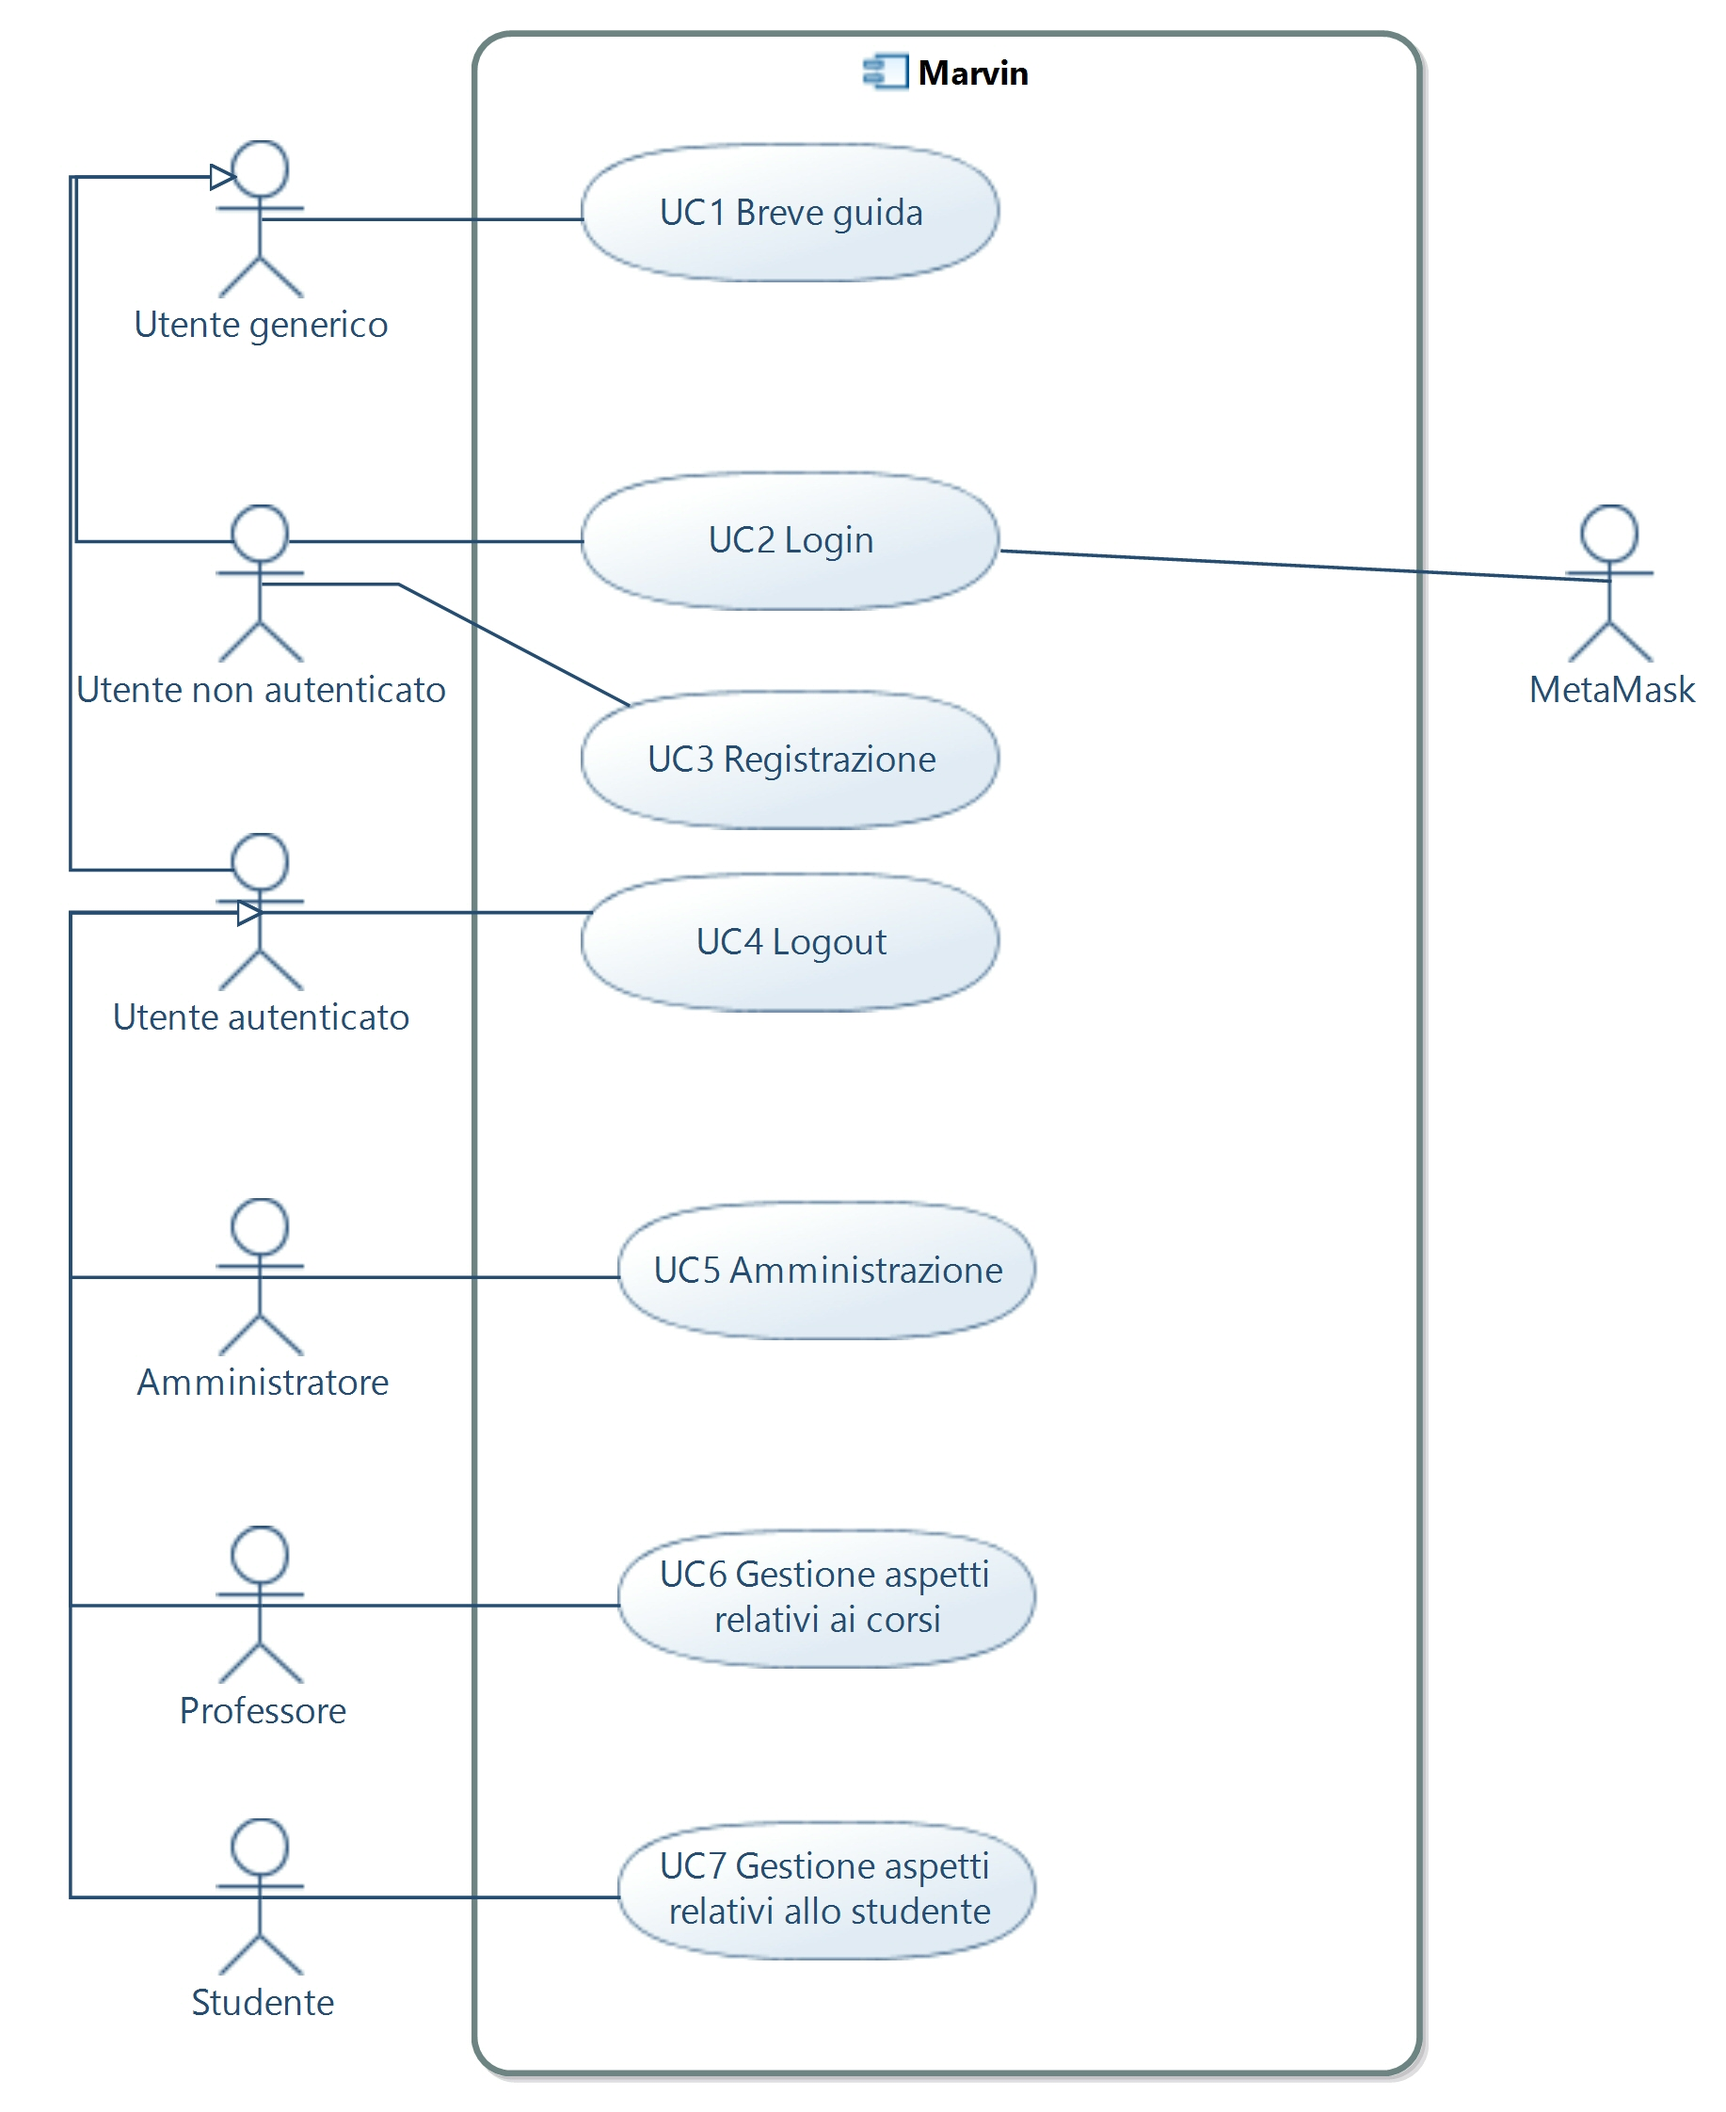
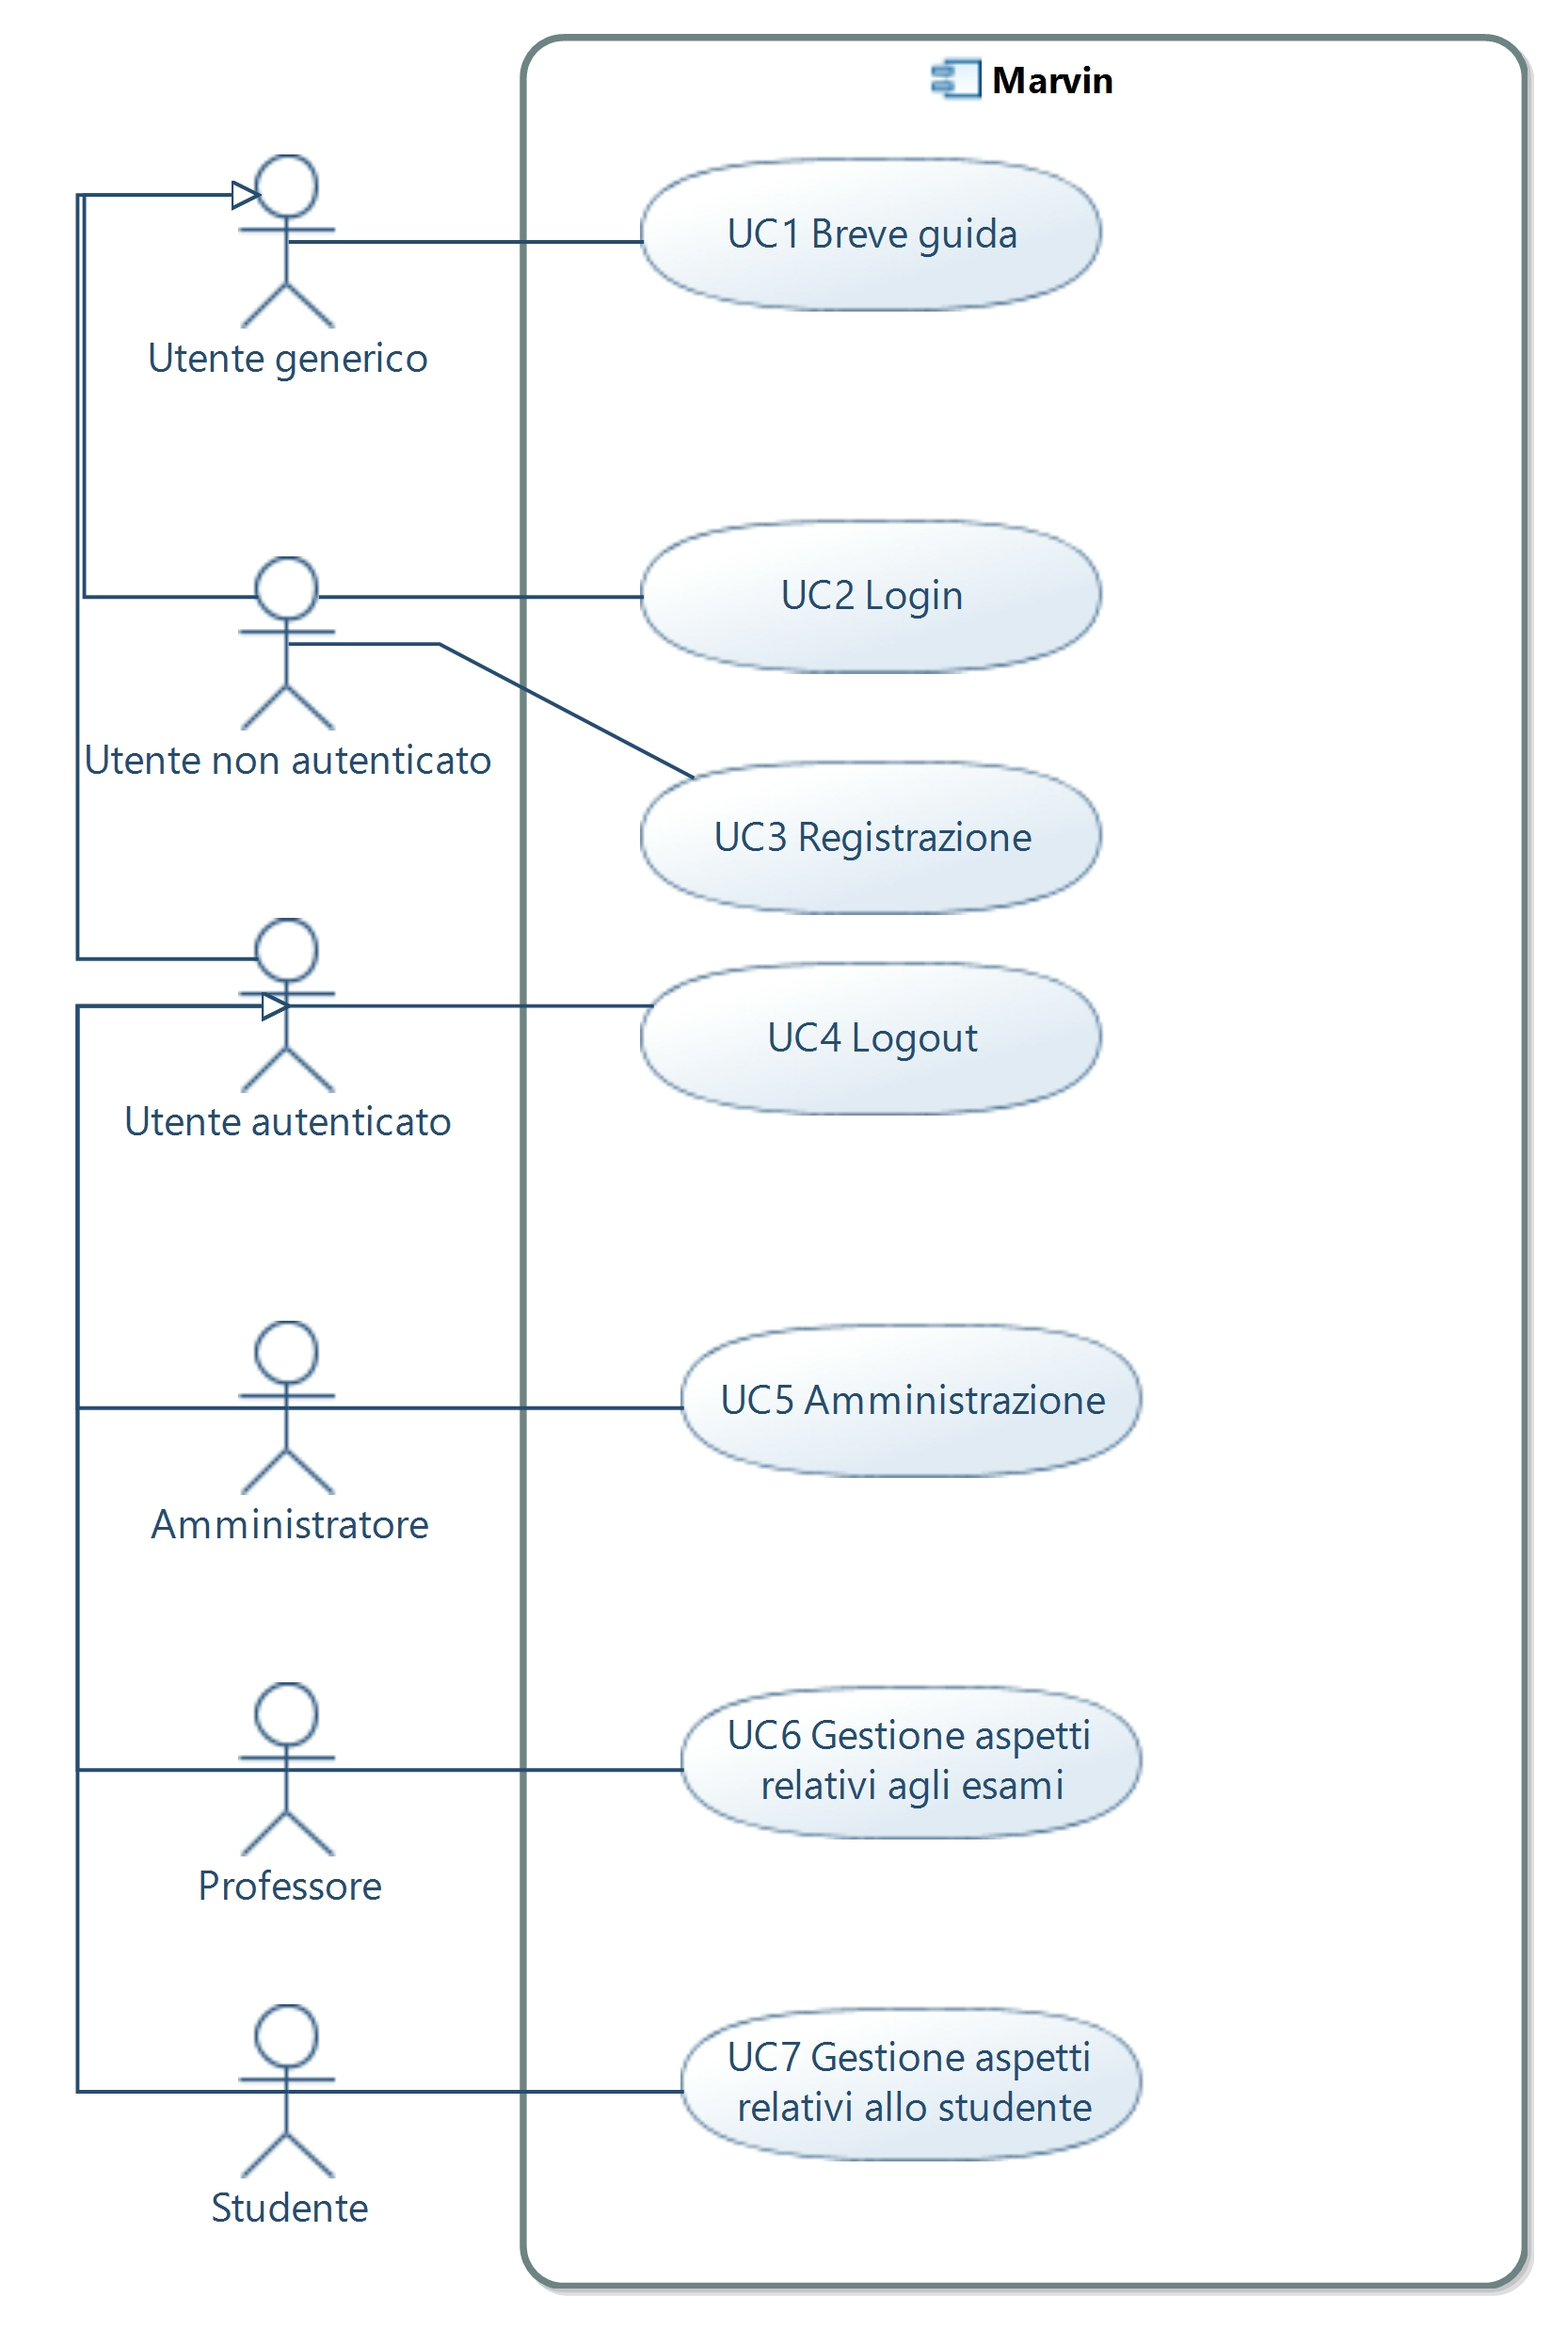
Aggiunto UM per UC6, UC7 e aggiustato UC

diff --git a/Esterni - ENG/AnalisiDeiRequisiti/CasiDUso.tex b/Esterni - ENG/AnalisiDeiRequisiti/CasiDUso.tex
@@ -45,7 +45,7 @@
 
 \begin{figure}[H]
 	\centering
-	\includegraphics[width=0.8\linewidth]{UC.jpg} %TODO: cambiare relativa ai corsi a relativa agli esami
+	\includegraphics[width=0.8\linewidth]{UC.jpg}
 	\caption{Casi d'uso basilari}
 	\label{fig:Casi d'uso basilari}
 \end{figure}
@@ -227,7 +227,12 @@
 	\item \textbf{Postcondizione:} Il professore ha visualizzato le operazioni messe a disposizione dal sistema e sceglie quale effettuare.\\
 \end{itemize}
 
-%TODO grafico UC6
+\begin{figure}[H]
+	\centering
+	\includegraphics[width=0.8\linewidth]{UC6.jpg}
+	\caption{UC6 - Gestione aspetti relativi agli esami}
+	\label{fig:UC6 - Gestione aspetti relativi agli esami}
+\end{figure}
 
 \subsection{UC6.1 - Visualizzazione lista degli esami}
 \begin{itemize}
@@ -279,6 +284,14 @@
 	\item \textbf{Postcondizione:} Lo studente ha visualizzato le operazioni messe a disposizione dal sistema e sceglie quale effettuare.\\
 \end{itemize}
 
+\begin{figure}[H]
+	\centering
+	\includegraphics[width=0.8\linewidth]{UC7.jpg}
+	\caption{UC7 - Gestione aspetti relativi allo studente}
+	\label{fig:UC7 - Gestione aspetti relativi allo studente}
+\end{figure}
+
+
 \subsection{UC7.1 - Visualizzazione delle informazione degli esami ai quali è iscritto}
 \begin{itemize}
 	\item \textbf{Attori primari:} Studente;\\
@@ -287,6 +300,13 @@
 	\item \textbf{Precondizione:} L'utente è già riconosciuto dal sistema come studente e richiede la visualizzazione della lista degli esami ai quali è iscritto ed le relative informazioni;\\
 	\item \textbf{Postcondizione:} Lo studente ottiene la lista per poterla consultare.\\
 \end{itemize}
+
+\begin{figure}[H]
+	\centering
+	\includegraphics[width=1.0\linewidth]{UC7_1.jpg}
+	\caption{UC7.1 - Visualizzazione delle informazione degli esami ai quali è iscritto}
+	\label{fig:UC7.1 - Visualizzazione delle informazione degli esami ai quali è iscritto}
+\end{figure}
 
 \subsection{UC7.1.1 - Visualizzazione dei crediti degli esami ai quali è iscritto}
 \begin{itemize}

diff --git a/Esterni - ENG/AnalisiDeiRequisiti/Requisiti.tex b/Esterni - ENG/AnalisiDeiRequisiti/Requisiti.tex
@@ -200,7 +200,8 @@ Qualsiasi operazione effettuata in una rete Ethereum reale ha un tempo di soddis
 	& & R0F3.4 \\
 	& & R0F3.5.1 \\
 	& & R0F3.5.2 \\
-	& & R0F3.6 \\ %TODO: e 3.7?
+	& & R0F3.6 \\
+	%TODO: per 3.7 bisogna chiedere come intendono tutta questa cosa
 	& & R0F3.8 \\
 	& & R0F5.1.1 \\
 	& & R0F5.1.2 \\
